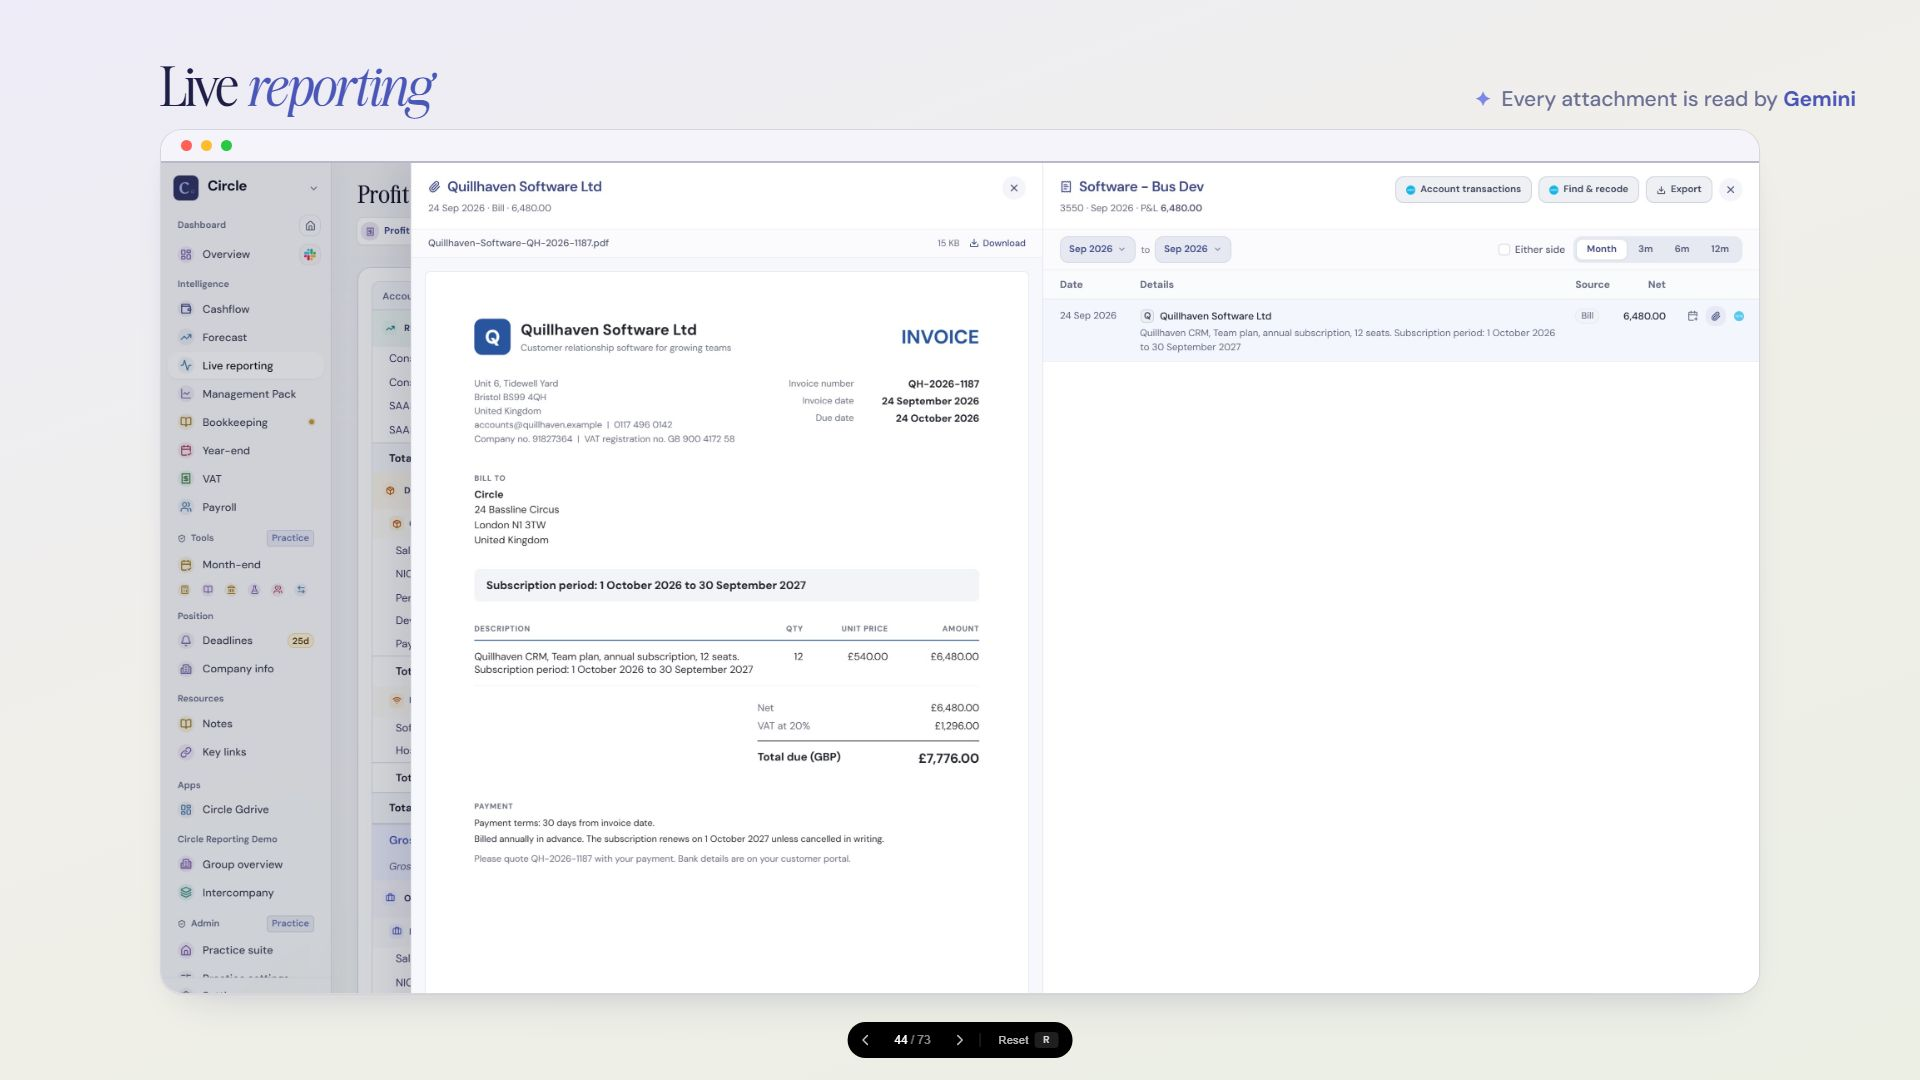
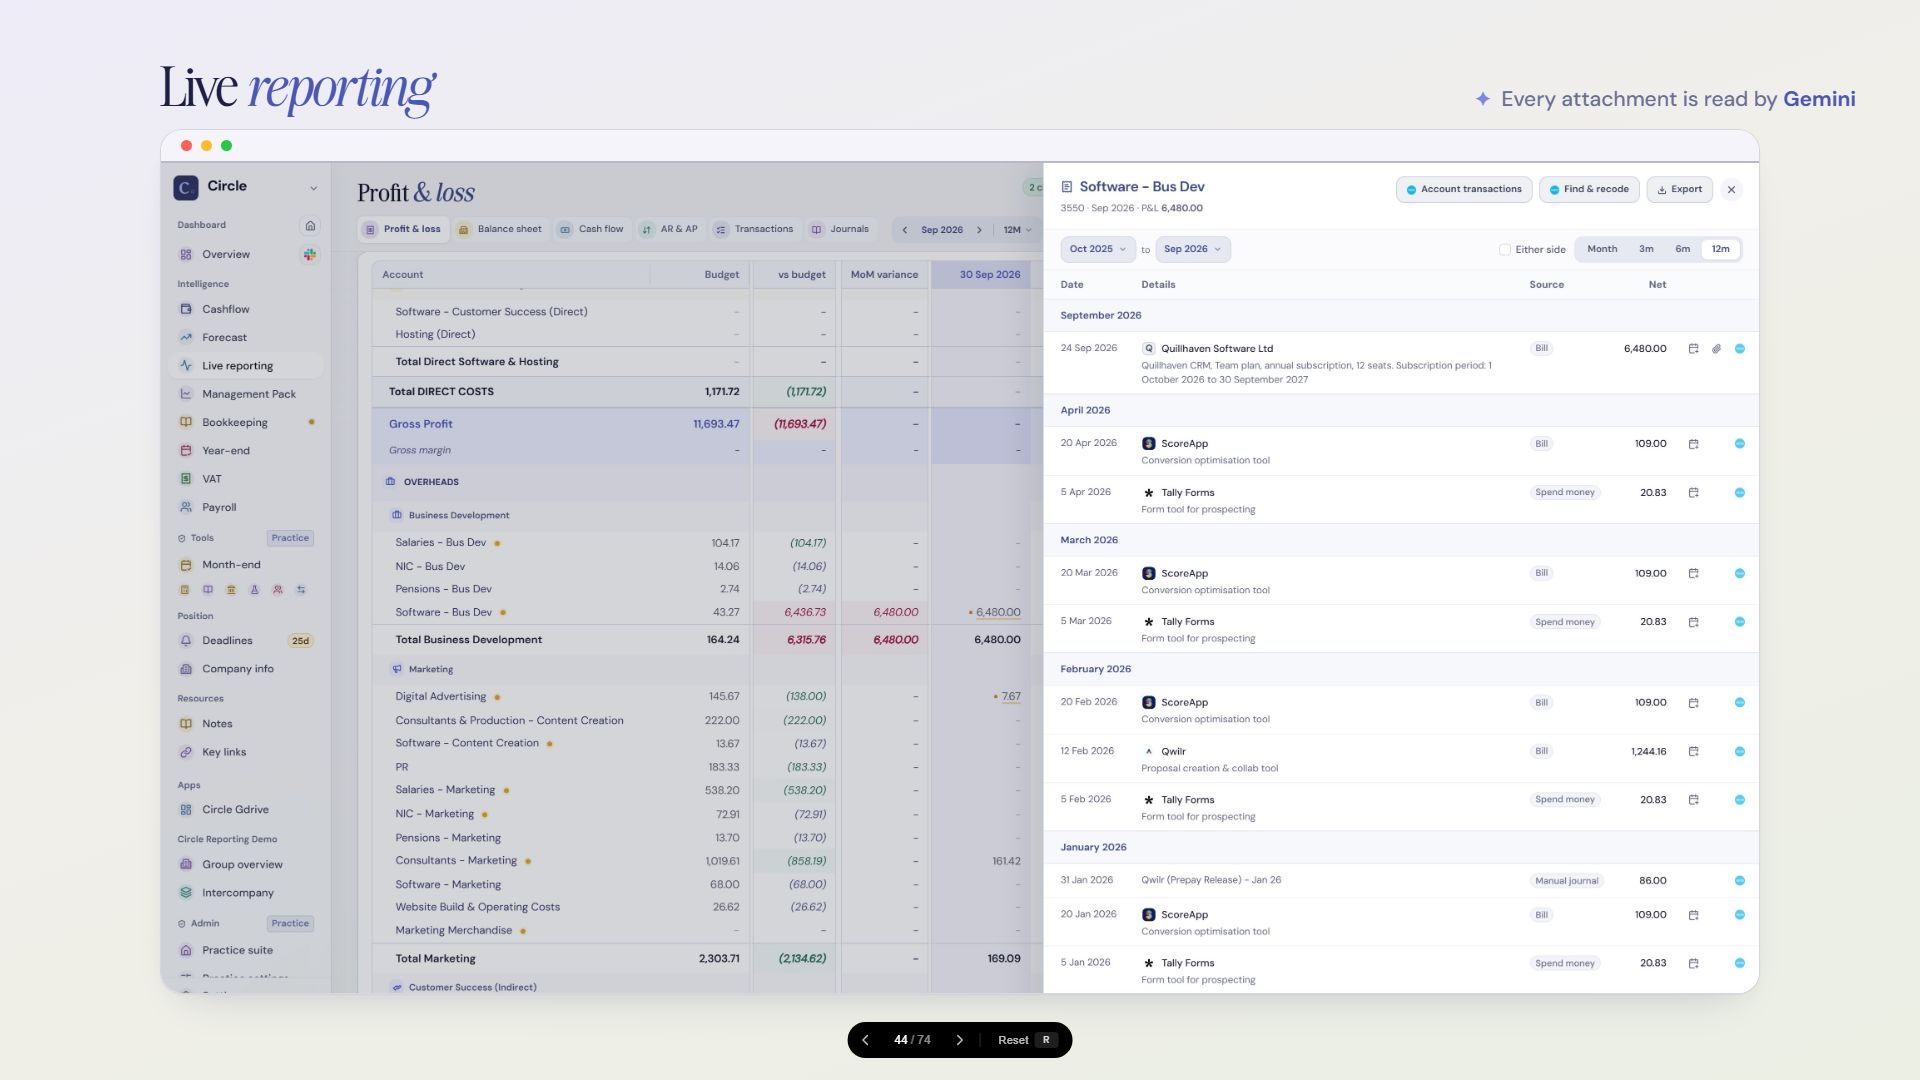
Auto Bank Wreck: live reporting as one run of four screens on the same bill (P&L, its transactions, the invoice, the schedule menu)

diff --git a/presentations/auto-bank-wreck/index.html b/presentations/auto-bank-wreck/index.html
@@ -2852,7 +2852,22 @@ deck-stage { background: #0a0a0a; }
       <div class="feat-head"><h2 class="display">Live <em>reporting</em></h2><p class="ai-note">Every attachment is read by <b>Gemini</b></p></div>
       <div class="fill center-y">
         <div class="shot-wrap">
-          <figure class="shot window"><img src="images/slides/41a-app-showcase/live-drill-wide-oct06.jpg" alt="Circle live profit and loss with one figure opened: twelve months of its transactions, each with its supplier logo"><figcaption></figcaption></figure>
+          <figure class="shot window"><img src="images/slides/41a-app-showcase/live-1-pl-oct06.jpg" alt="Circle live profit and loss, straight from Xero: every account month by month against budget"><figcaption></figcaption></figure>
+        </div>
+      </div>
+
+      <div class="bottombar"></div>
+    </div>
+  </section>
+
+  <section class="slide" data-label="Live reporting · listing">
+    <div class="frame" style="--pad-y: 56px;">
+      <div class="topbar"><p class="section-tag">What works <em>· 02 build</em></p><span class="page-chip"></span></div>
+
+      <div class="feat-head"><h2 class="display">Live <em>reporting</em></h2><p class="ai-note">Every attachment is read by <b>Gemini</b></p></div>
+      <div class="fill center-y">
+        <div class="shot-wrap">
+          <figure class="shot window"><img src="images/slides/41a-app-showcase/live-2-listing-oct06.jpg" alt="One figure opened to its transactions: twelve months of software bills, each with its supplier logo"><figcaption></figcaption></figure>
         </div>
       </div>
 
@@ -2867,7 +2882,7 @@ deck-stage { background: #0a0a0a; }
       <div class="feat-head"><h2 class="display">Live <em>reporting</em></h2><p class="ai-note">Every attachment is read by <b>Gemini</b></p></div>
       <div class="fill center-y">
         <div class="shot-wrap">
-          <figure class="shot window"><img src="images/slides/41a-app-showcase/live-invoice-oct06.jpg" alt="A transaction opened to the invoice attached in Xero: an annual software subscription with its subscription period, beside the ledger line it belongs to"><figcaption></figcaption></figure>
+          <figure class="shot window"><img src="images/slides/41a-app-showcase/live-3-invoice-oct06.jpg" alt="One of those bills opened to the invoice attached in Xero: an annual subscription with its subscription period"><figcaption></figcaption></figure>
         </div>
       </div>
 
@@ -2882,8 +2897,8 @@ deck-stage { background: #0a0a0a; }
       <div class="feat-head"><h2 class="display">Live <em>reporting</em></h2><p class="ai-note">Every attachment is read by <b>Gemini</b></p></div>
       <div class="fill center-y">
         <div class="shot-wrap">
-          <i class="lens" aria-hidden="true" style="left: 430px; top: 262px; width: 340px; height: 340px; background-size: 2214px auto; background-image: url('images/slides/41a-app-showcase/live-drill-menu-oct06.jpg'); background-position: -1854px -400px;"></i>
-          <figure class="shot window"><img src="images/slides/41a-app-showcase/live-drill-menu-oct06.jpg" alt="The same transactions with one opened to its schedule menu: add prepayment, add accrual, or attach the invoice to an accrual already in the schedule"><figcaption></figcaption></figure>
+          <i class="lens" aria-hidden="true" style="left: 430px; top: 284px; width: 340px; height: 340px; background-size: 2214px auto; background-image: url('images/slides/41a-app-showcase/live-4-menu-oct06.jpg'); background-position: -1819px -220px;"></i>
+          <figure class="shot window"><img src="images/slides/41a-app-showcase/live-4-menu-oct06.jpg" alt="The same bill opened to its schedule menu: add prepayment, add accrual, or attach the invoice to an accrual already in the schedule"><figcaption></figcaption></figure>
         </div>
       </div>
 
@@ -3924,9 +3939,10 @@ deck-stage { background: #0a0a0a; }
   {"say":["Task management, built in: every project, the day planned, and the filing deadlines sitting alongside the work."]},
   {"say":["And the AI inside it. AI savvy, not AI native: the app is deterministic at its core, and AI is used where it earns its place. Every model, what it does, what it reads, and what it costs: about six pounds this month."]},
   {"say":["Management accounts hosted in the app, with notifications when a pack is ready and when it has been read."]},
-  {"say":["Live reporting: the P&L straight from Xero. Click any figure and it opens to its transactions, supplier by supplier, twelve months at a time."]},
-  {"say":["Click the paperclip and there is the actual invoice from Xero, beside the line it belongs to. An annual subscription, paid up front: the period is right there on it."]},
-  {"say":["And from right there, on any line: add a prepayment, add an accrual, or attach the invoice to an accrual already in the schedule. On the fly. Behind it, every attachment in Xero gets read by GenAI to find the period it covers."]},
+  {"say":["Live reporting: the P&L straight from Xero, every account, month by month, against budget."]},
+  {"say":["Click any figure and it opens to its transactions. Here, software: twelve months of bills, supplier by supplier."]},
+  {"say":["Click the paperclip on any of them and there is the actual invoice from Xero, beside the line it belongs to. An annual subscription, paid up front: the period is right there on it."]},
+  {"say":["And from that same line: add a prepayment, add an accrual, or attach it to an accrual already in the schedule. On the fly. Behind it, every attachment in Xero gets read by GenAI to find the period it covers."]},
   {"say":["Bookkeeping workflow and comms: what is outstanding, who is waiting on whom, and the messages to the client in one place."]},
   {"say":["Month end. Prepayments and accruals on the left, synced to Xero. And the other month-end processes run the same way: payroll reallocations, direct costs, the corporation tax accrual, each one a schedule that posts its own journal."]},
   {"say":["Payroll. The review on the left: this month against last, every variance explained. The journal it posts in the middle, balanced. And the client approves it in Slack."]},
